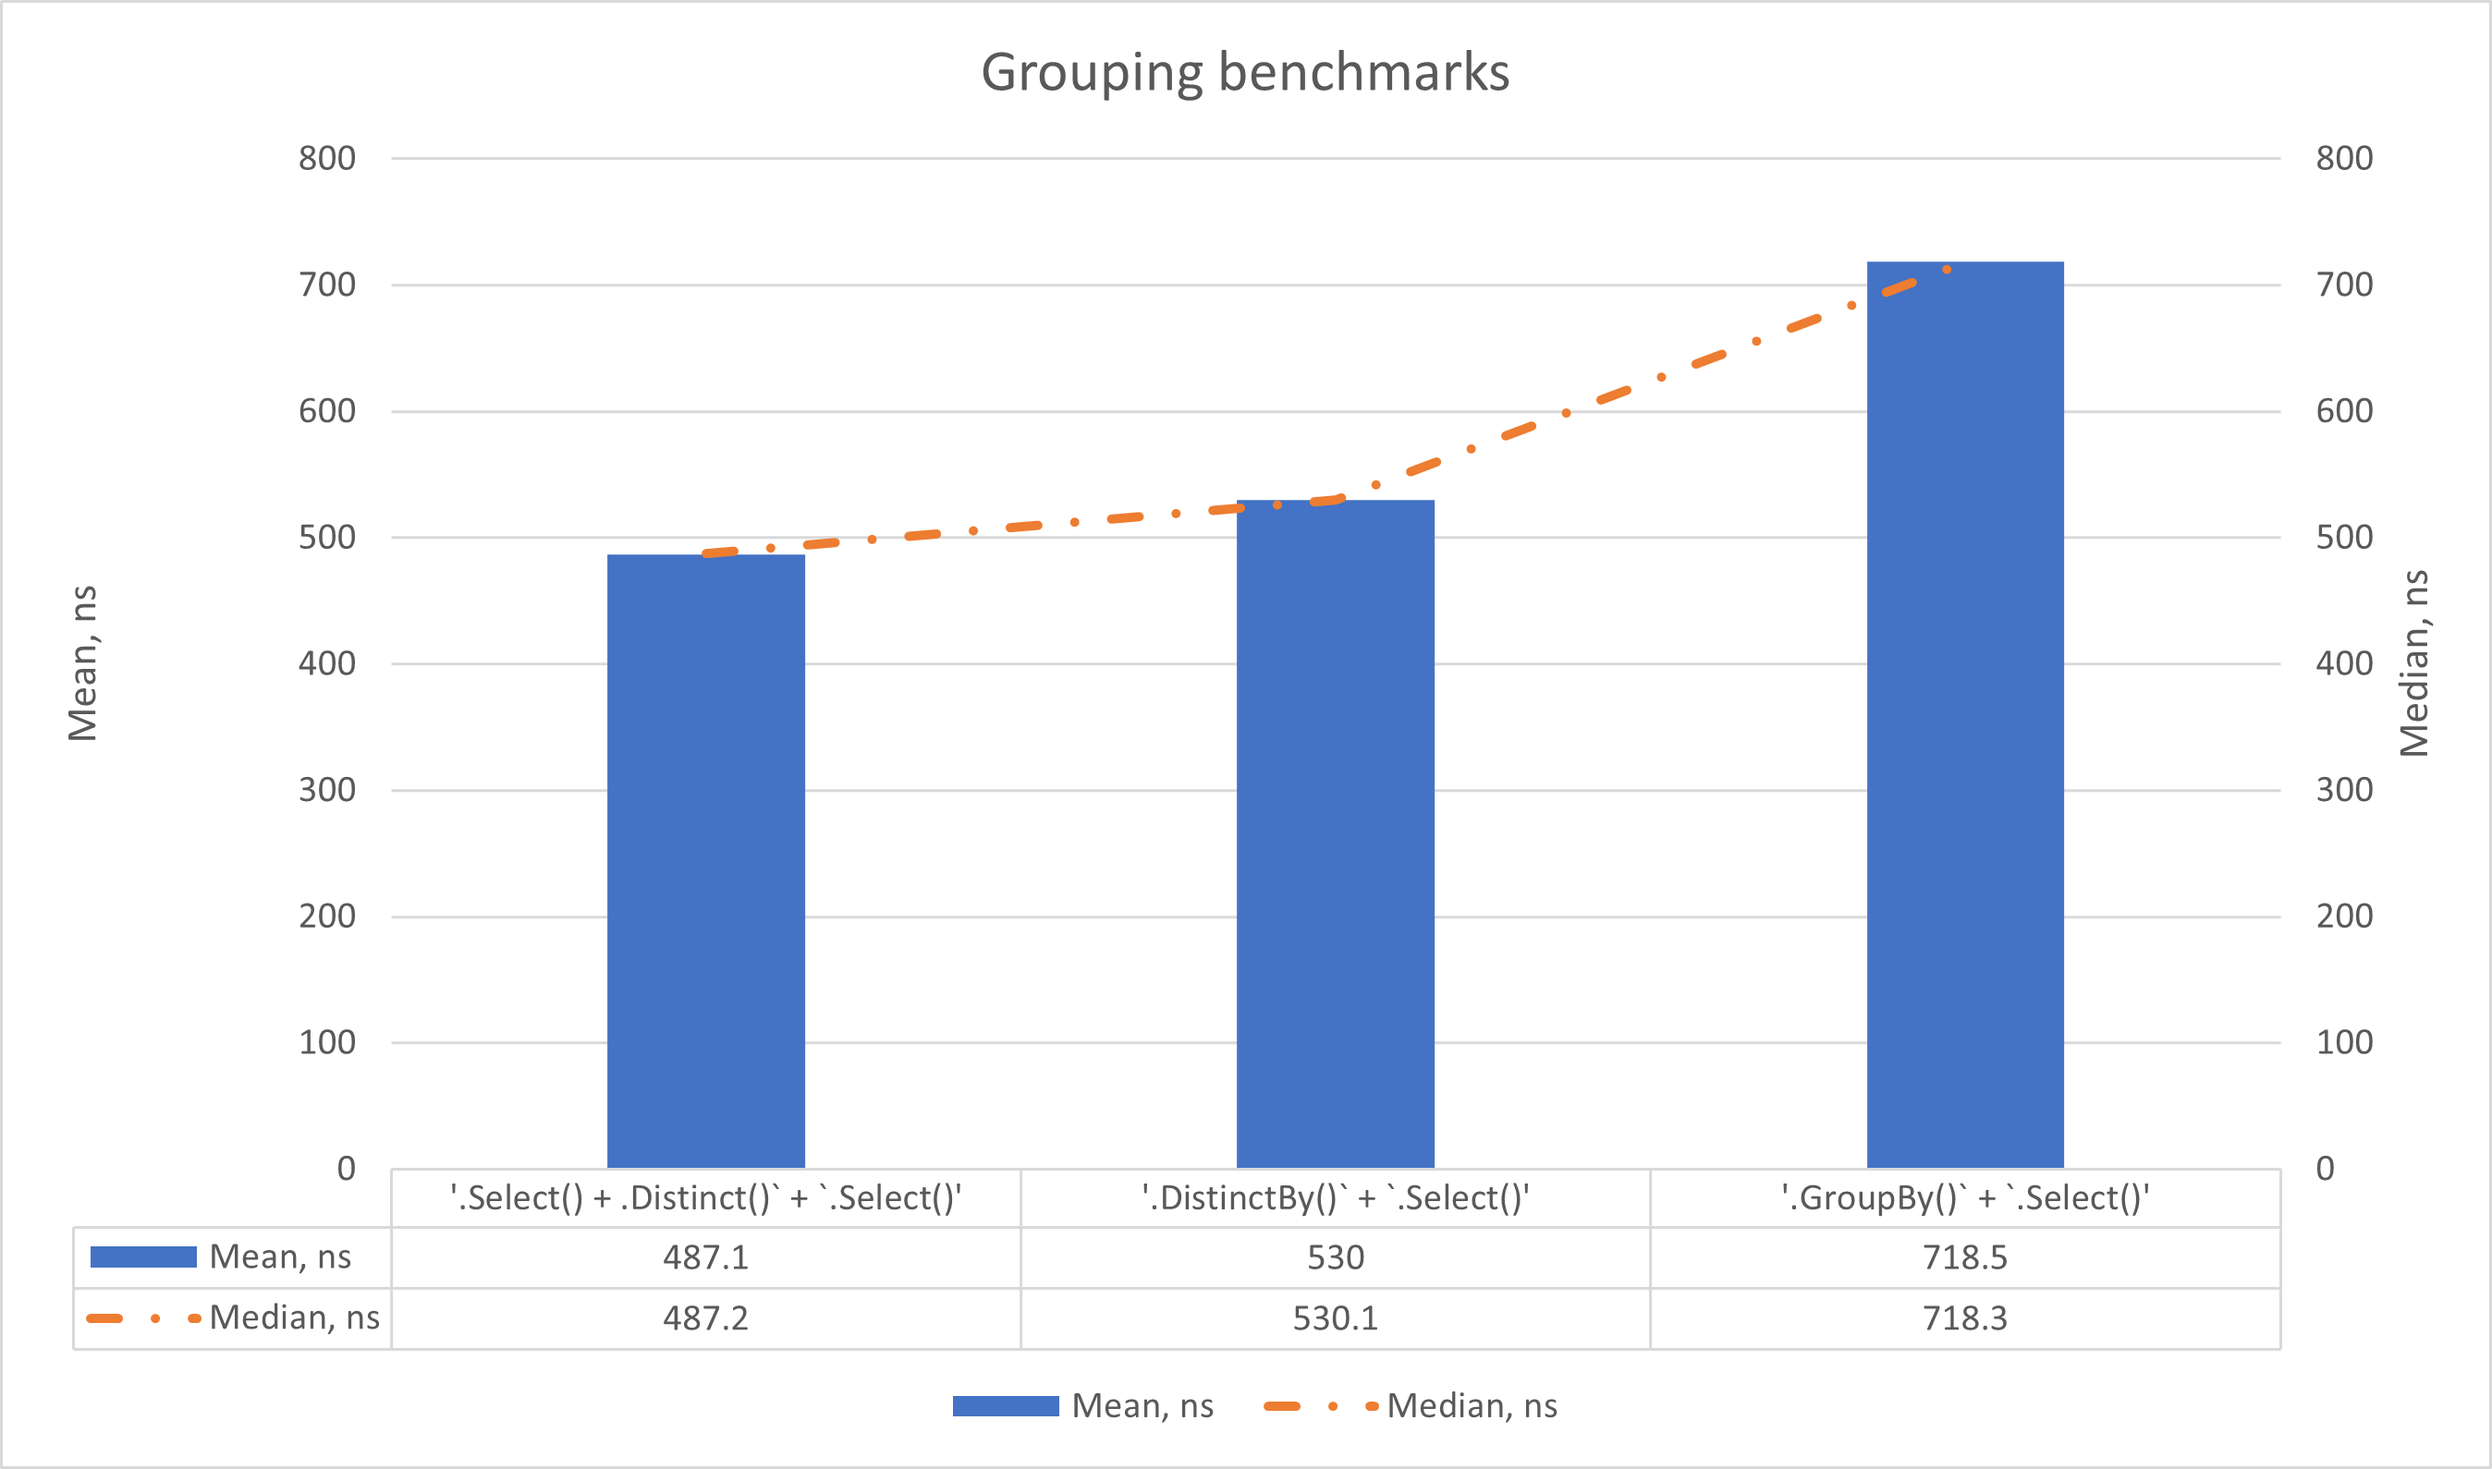
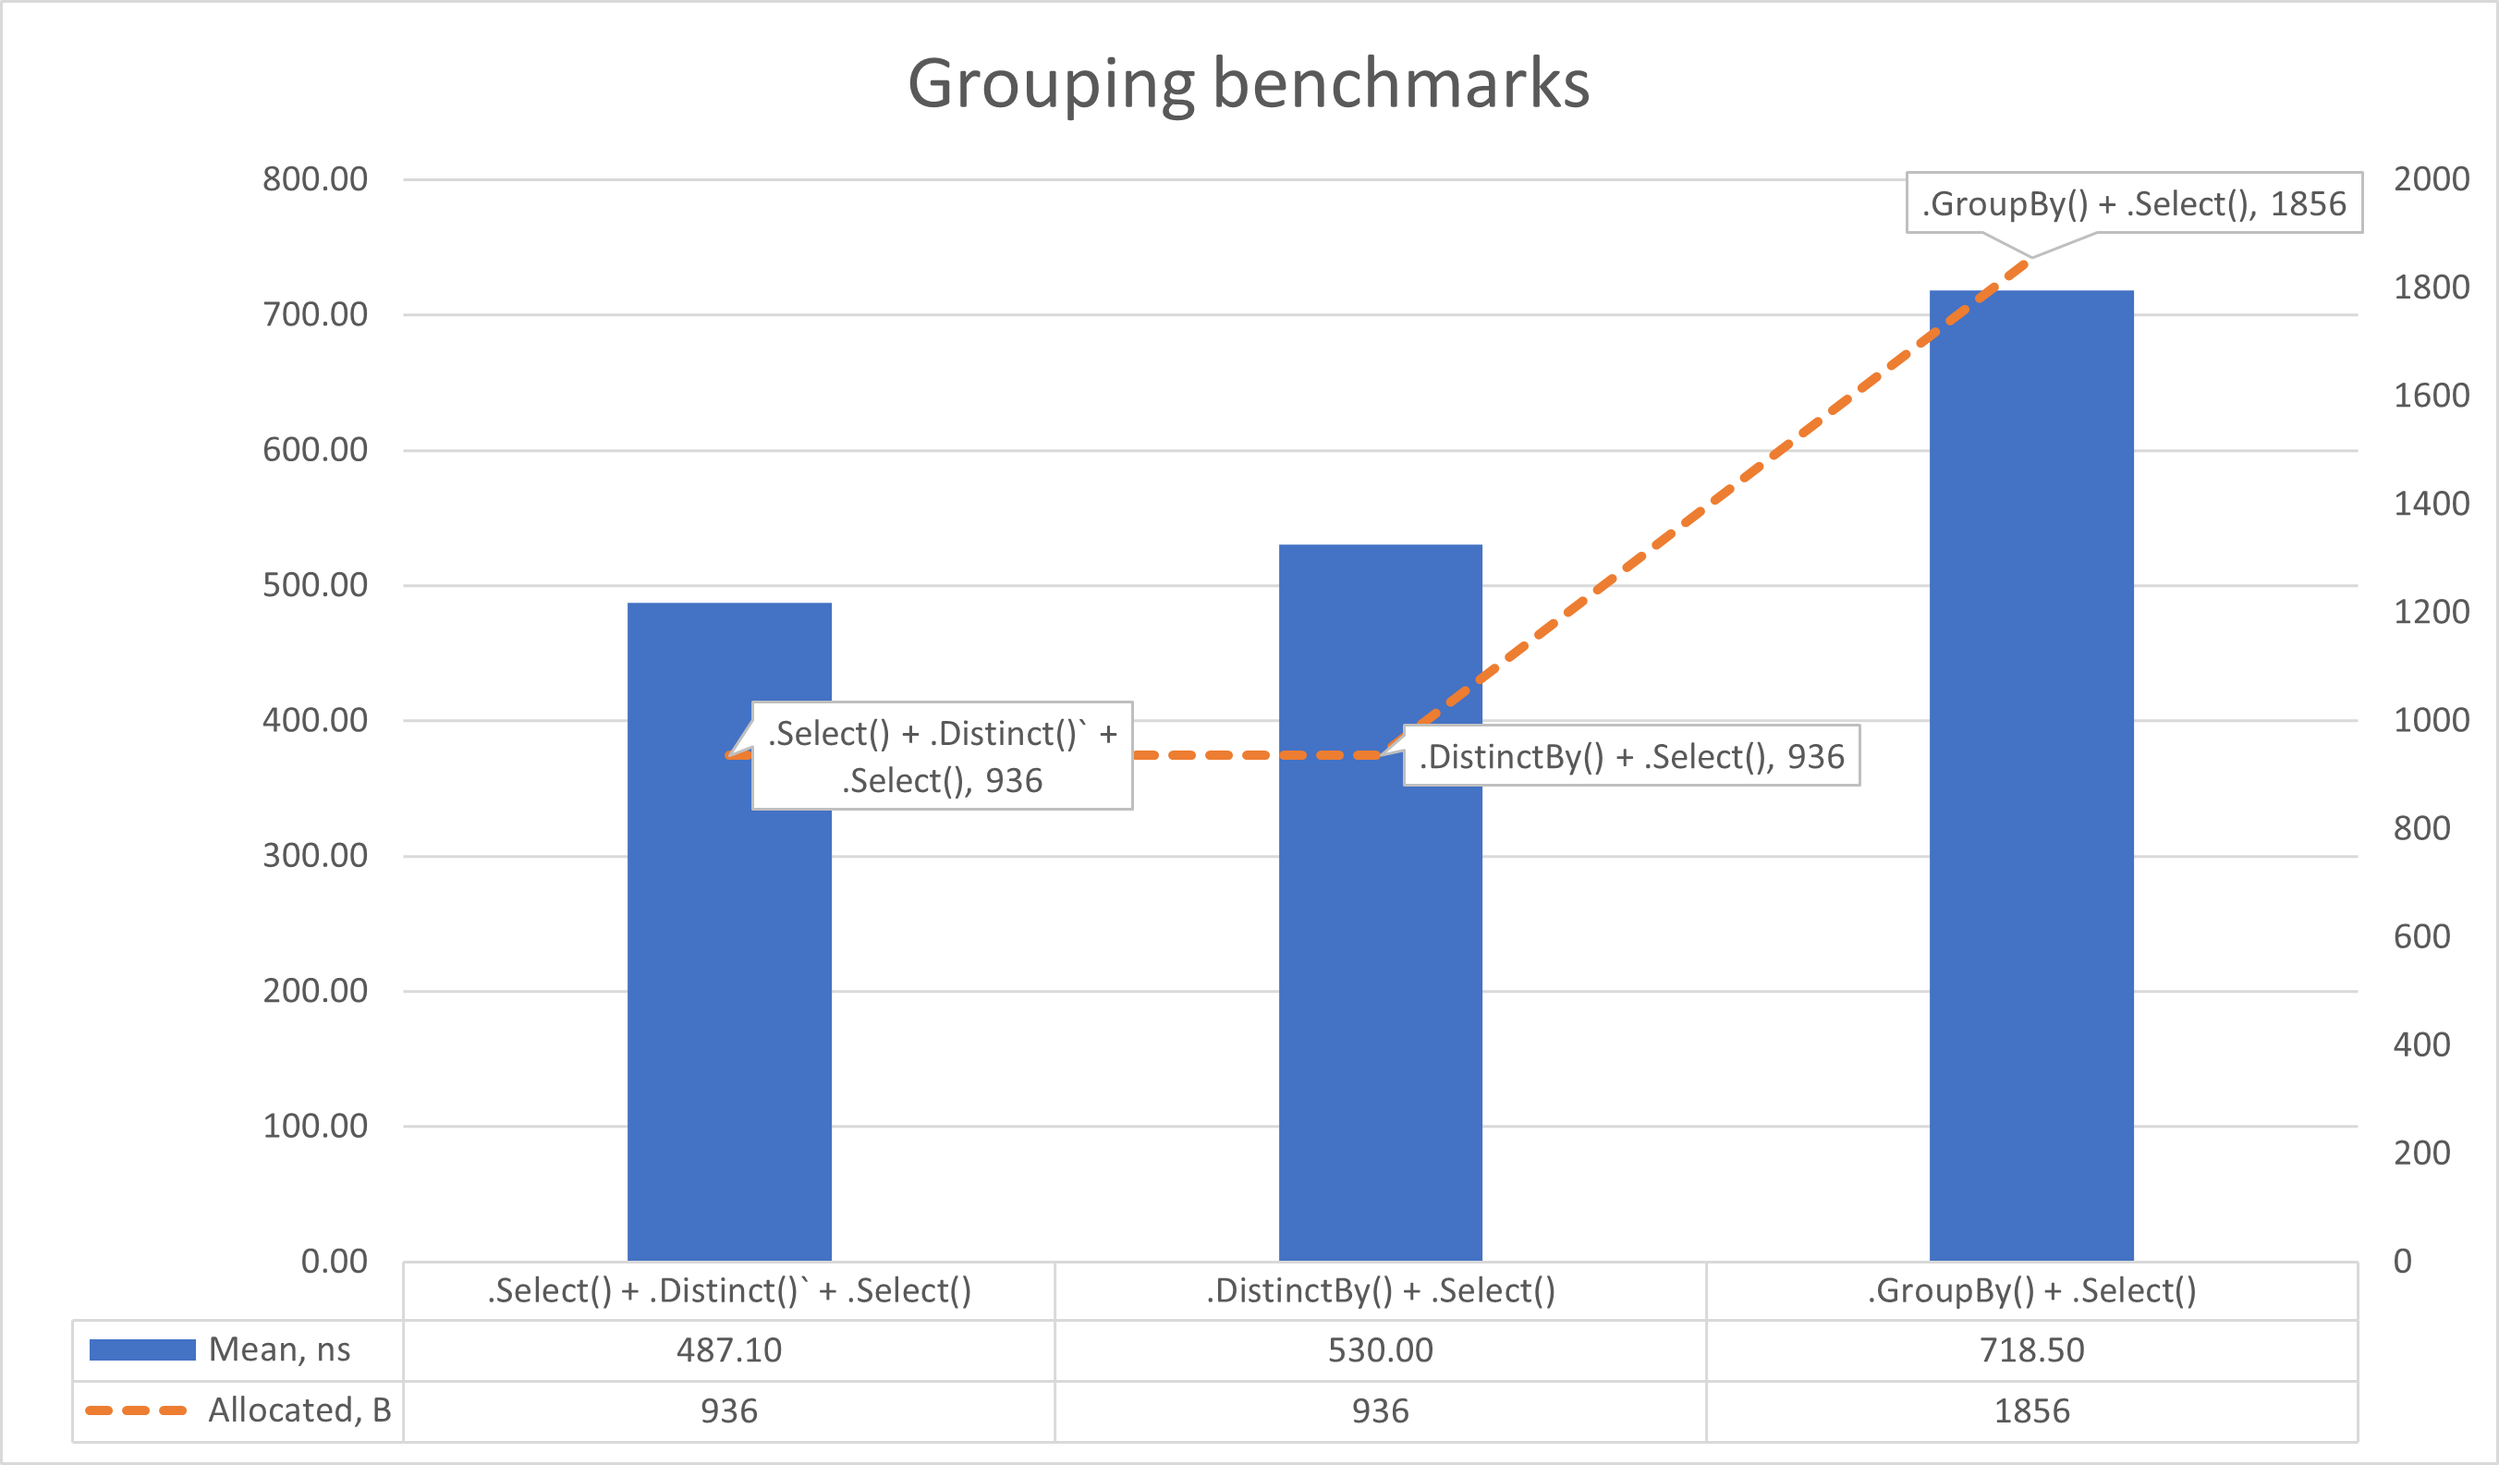
feat: fixing tables

diff --git a/src/main/Benchmarks.Serializers.Binary/Readme.md b/src/main/Benchmarks.Serializers.Binary/Readme.md
@@ -50,7 +50,6 @@ Let's look at serializing only 1 entity:
 | Protobuf      | 317.34 ns | 1.920 ns | 1.702 ns | 0.455 ns | 314.14 ns | 317.49 ns | 317.79 ns | 318.41 ns | 319.40 ns |  3,151,228.2 | 0.0896 |      - |    1128 B |
 
 ![Plot](../../../assets/benchmarks.serializers.binary/serialization-1.png)
-![Plot](../../../assets/benchmarks.serializers.binary/serialization-alloc-1.png)
 
 Let's look at serializing an array of 1000 entities:
 
@@ -64,7 +63,6 @@ Let's look at serializing an array of 1000 entities:
 | MsgPackLight  | 105,371.18 ns | 536.684 ns | 502.015 ns | 129.620 ns | 104,210.47 ns | 105,159.45 ns | 105,229.48 ns | 105,640.76 ns | 106,209.89 ns |  9,490.3 | 25.7568 | 4.2725 |  325528 B |
 
 ![Plot](../../../assets/benchmarks.serializers.binary/serialization-1k.png)
-![Plot](../../../assets/benchmarks.serializers.binary/serialization-alloc-1k.png)
 
 <a name="binary-deserialization"></a>
 ### Deserialization
@@ -83,7 +81,6 @@ Let's look at serializing only 1 entity:
 | Protobuf      | 280.499 ns | 0.9661 ns | 0.9037 ns | 0.2333 ns | 278.679 ns | 279.945 ns | 280.483 ns | 281.057 ns | 281.878 ns |   3,565,072.5 | 0.0162 |     208 B |
 
 ![Plot](../../../assets/benchmarks.serializers.binary/deserialization-1.png)
-![Plot](../../../assets/benchmarks.serializers.binary/deserialization-alloc-1.png)
 
 Let's look at deserializing an array of 1000 entities:
 
@@ -96,7 +93,6 @@ Let's look at deserializing an array of 1000 entities:
 | MsgPackLight  | 70,946.240 ns | 299.4175 ns | 280.0753 ns | 72.3151 ns | 70,540.906 ns | 70,735.144 ns | 70,938.062 ns | 71,086.530 ns | 71,441.785 ns | 14,095.2 | 17.4561 | 3.5400 |  220296 B |
 
 ![Plot](../../../assets/benchmarks.serializers.binary/deserialization-1k.png)
-![Plot](../../../assets/benchmarks.serializers.binary/deserialization-alloc-1k.png)
 
 <a name="conclusions"></a>
 ## Conclusions
